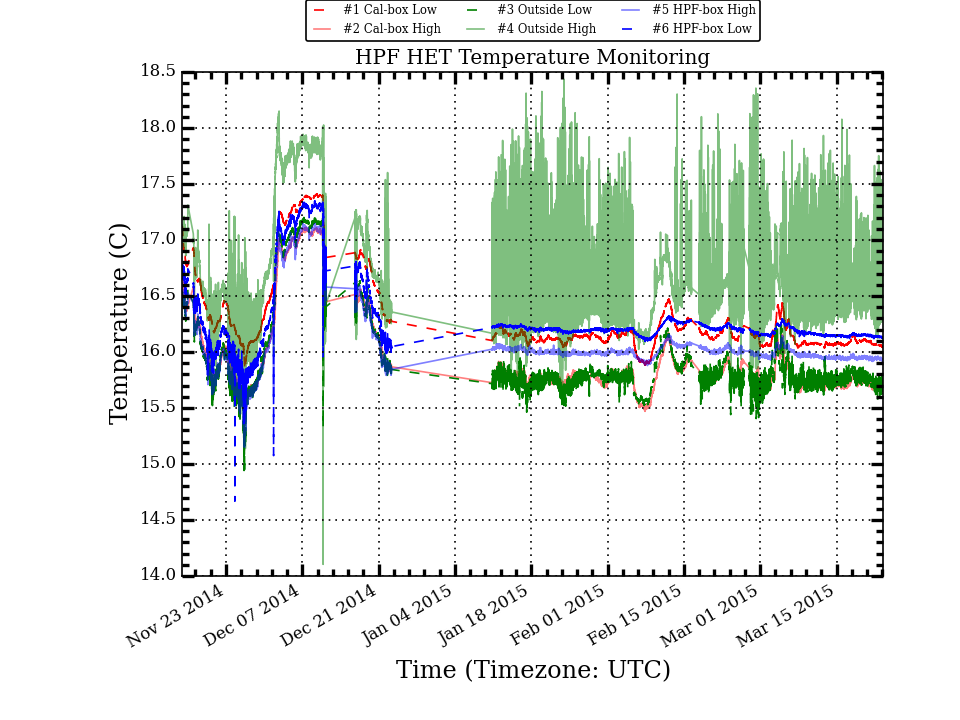
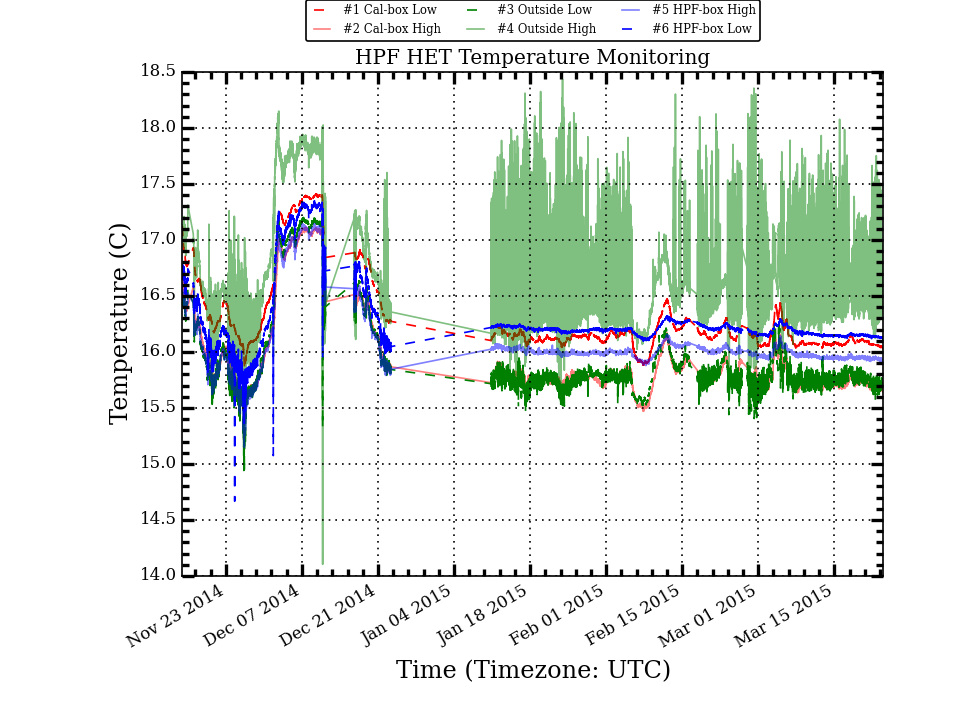
Update HPF Temp Plots

diff --git a/research/hpf_temps/plots/LakeShoreLogTotal_stats.html b/research/hpf_temps/plots/LakeShoreLogTotal_stats.html
@@ -10,26 +10,26 @@
  </TR>
  <TR>
   <TD>Cal_Low</TD>
-  <TD>16.304</TD>
+  <TD>16.303</TD>
   <TD>0.363</TD>
-  <TD>16.155</TD>
+  <TD>16.154</TD>
   <TD>17.410</TD>
   <TD>15.840</TD>
   <TD>1.570</TD>
  </TR>
  <TR>
   <TD>Cal_High</TD>
-  <TD>15.939</TD>
+  <TD>15.938</TD>
   <TD>0.380</TD>
-  <TD>15.794</TD>
+  <TD>15.793</TD>
   <TD>17.114</TD>
   <TD>15.410</TD>
   <TD>1.704</TD>
  </TR>
  <TR>
   <TD>Out_Low</TD>
-  <TD>15.939</TD>
-  <TD>0.405</TD>
+  <TD>15.938</TD>
+  <TD>0.404</TD>
   <TD>15.781</TD>
   <TD>17.201</TD>
   <TD>14.942</TD>
@@ -37,9 +37,9 @@
  </TR>
  <TR>
   <TD>Out_High</TD>
-  <TD>16.656</TD>
-  <TD>0.458</TD>
-  <TD>16.524</TD>
+  <TD>16.655</TD>
+  <TD>0.457</TD>
+  <TD>16.522</TD>
   <TD>18.436</TD>
   <TD>14.104</TD>
   <TD>4.332</TD>
@@ -47,7 +47,7 @@
  <TR>
   <TD>HPF_High</TD>
   <TD>16.085</TD>
-  <TD>0.322</TD>
+  <TD>0.321</TD>
   <TD>15.997</TD>
   <TD>17.147</TD>
   <TD>15.149</TD>
@@ -55,9 +55,9 @@
  </TR>
  <TR>
   <TD>HPF_Low</TD>
-  <TD>16.286</TD>
-  <TD>0.320</TD>
-  <TD>16.202</TD>
+  <TD>16.285</TD>
+  <TD>0.319</TD>
+  <TD>16.201</TD>
   <TD>17.356</TD>
   <TD>14.668</TD>
   <TD>2.688</TD>
